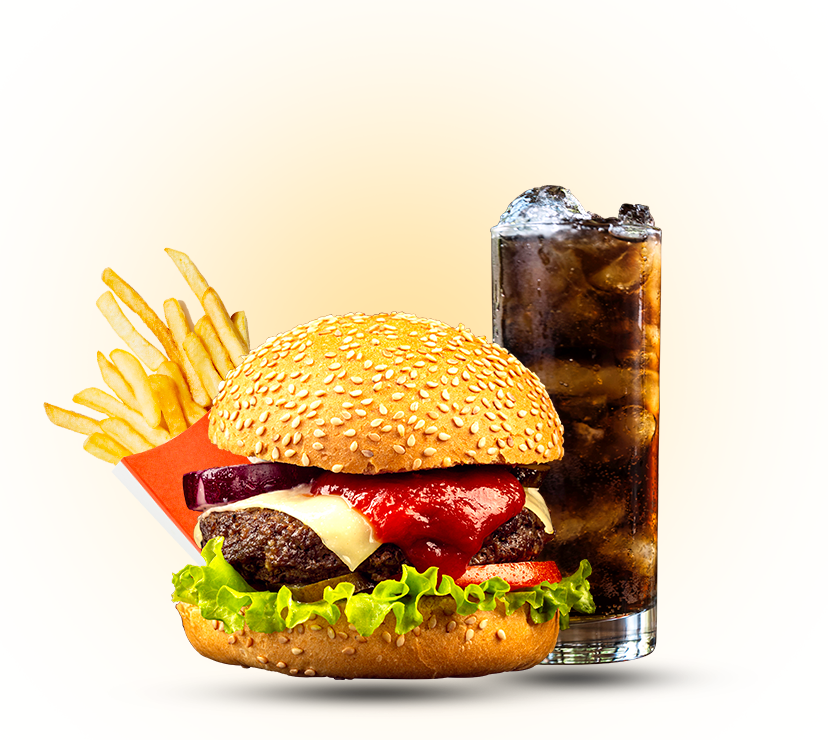
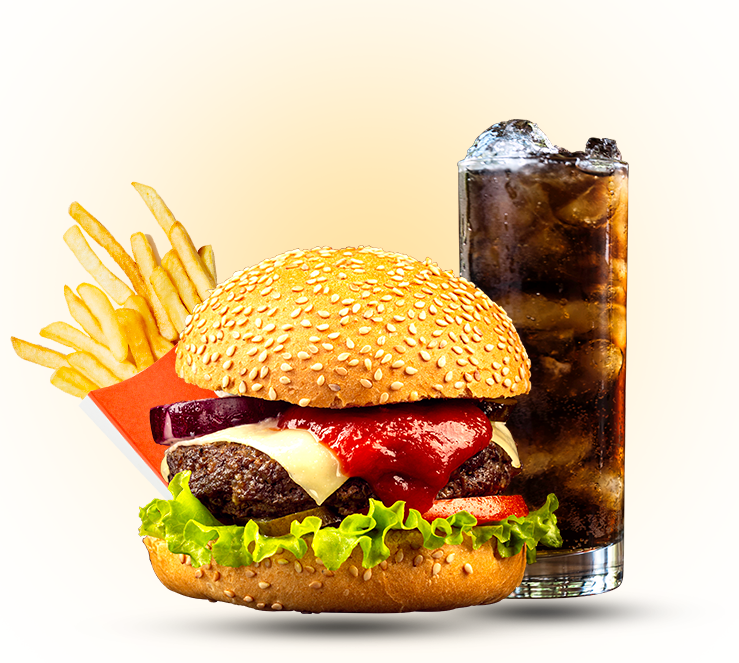
modify some file

diff --git a/css/style.css b/css/style.css
@@ -32,7 +32,12 @@ body {
 /* header start  */
 
 header {
-  padding: 28px 0;
+  position: absolute;
+  top: 0;
+  left: 0;
+  min-width: 100%;
+  padding: 35px 0;
+  z-index: 999;
 }
 
 .container {
@@ -51,7 +56,7 @@ header {
 }
 
 .menu {
-  margin-top: 8px;
+  margin-top: 10px;
   width: 70%;
   float: right;
 }
@@ -92,7 +97,7 @@ header {
 /* banner start  */
 
 .banner {
-  padding-bottom: 80px;
+  padding: 80px 0;
   background-image: url("../images/banner.jpg");
   background-size: cover;
   background-repeat: no-repeat;
@@ -100,7 +105,8 @@ header {
 
 .banner_text {
   margin-top: 265px;
-  width: 45%;
+  width: 40%;
+
   float: left;
 }
 
@@ -113,38 +119,42 @@ header {
   border: 3px dashed #3d2514;
 }
 
+.cmn_txt {
+  font-family: AlfaSlabOne-Regular;
+  text-transform: uppercase;
+  text-shadow: 6px 5px 0px #fee7ba;
+  text-shadow: 6px 5px 0px #fee7ba;
+}
+
 .banner_text h1 {
   margin: 35px 0 5px;
-  font-family: AlfaSlabOne-Regular;
   font-size: 114px;
   line-height: 125px;
   letter-spacing: 5px;
-  text-transform: uppercase;
-  text-shadow: 6px 5px 0px #fee7ba;
 }
 
 .banner_text h2 {
-  font-family: AlfaSlabOne-Regular;
   font-size: 56px;
   line-height: 65px;
-  text-transform: uppercase;
-  text-shadow: 6px 5px 0px #fee7ba;
+  letter-spacing: 2px;
 }
 
 .banner_food {
-  width: 48%;
+  position: relative;
+  width: 55%;
   float: right;
 }
 
-.food_img img {
+.banner_food img {
   width: 100%;
 }
 
 .offer {
-  position: relative;
-  z-index: 1;
   margin-top: -196px;
   margin-left: 58px;
+  position: absolute;
+  left: 0;
+  bottom: 65px;
   display: flex;
   flex-direction: column;
   justify-content: center;
@@ -194,7 +204,7 @@ header {
   color: #fff;
   background-repeat: no-repeat;
   background-size: cover;
-  background-position: center;
+  background-position: top center;
   border-radius: 8px;
 }
 
@@ -240,6 +250,8 @@ header {
 }
 
 .product_header {
+  margin: 0 auto;
+  width: 65%;
   text-align: center;
 }
 
@@ -263,10 +275,6 @@ header {
 
 .cmn_para {
   line-height: 28px;
-}
-
-.header_para {
-  padding: 0 310px;
 }
 
 .products {
@@ -303,7 +311,6 @@ header {
 }
 
 .cmn_btn {
-  height: 55px;
   font-family: AlfaSlabOne-Regular;
   color: #fff;
   text-transform: uppercase;
@@ -322,7 +329,12 @@ header {
 .product_btn {
   margin-top: 30px;
   width: 198px;
+  height: 55px;
+  display: inline-flex;
+  justify-content: center;
+  align-items: center;
   font-size: 16px;
+  text-decoration: none;
 }
 
 /* product end  */
@@ -373,7 +385,14 @@ header {
 /* contact start  */
 
 .contact {
-  padding: 60px 0;
+  position: relative;
+  padding: 60px 0 120px;
+}
+
+.container3 {
+  width: 50%;
+  margin: 0 auto;
+  position: relative;
 }
 
 .contact_text {
@@ -381,14 +400,9 @@ header {
   margin-bottom: 80px;
 }
 
-form {
-  margin: 0 auto;
-  width: 45%;
-}
-
 .form_group {
   overflow: hidden;
-  margin-bottom: 22px;
+  margin-bottom: 30px;
 }
 
 .form_group:last-child {
@@ -397,13 +411,13 @@ form {
 
 .form_group input,
 .contact_btn {
-  width: 49%;
+  width: 48%;
   border-radius: 4px;
 }
 
 .form_group input {
   padding-left: 20px;
-  height: 55px;
+  height: 60px;
   font-family: Montserrat-Bold;
   outline: none;
   border: 1px solid #bebebe;
@@ -421,6 +435,31 @@ form {
 .form_group input::placeholder {
   text-transform: uppercase;
   color: #8d8d8d;
+}
+
+.contact_btn {
+  height: 60px;
+}
+
+.common_p {
+  position: absolute;
+}
+
+.common_p img {
+  width: 100%;
+}
+
+.position1 {
+  top: -65px;
+  left: -78px;
+}
+.position2 {
+  top: 195px;
+  left: 180px;
+}
+.position3 {
+  bottom: -220px;
+  right: 0;
 }
 
 /* contact end  */
@@ -480,24 +519,31 @@ footer {
 }
 
 .copyright {
-  margin-top: 6px;
+  margin-top: 15px;
 }
 
 .footer_bottom {
   margin-top: 160px;
 }
+
 .social_links {
   float: right;
+  padding: 10px 0;
 }
 
 .social_links li {
   margin-right: 12px;
   float: left;
   list-style: none;
+  transition: 0.3s;
 }
 
 .social_links li:last-child {
   margin-right: 0;
+}
+
+.social_links li:hover {
+  transform: translateY(-3px);
 }
 
 /* footer end  */

diff --git a/index.html b/index.html
@@ -37,13 +37,11 @@
         <div class="container">
           <div class="banner_text">
             <p>It is a good time for the great taste of burgers</p>
-            <h1>Burger</h1>
-            <h2>week</h2>
+            <h1 class="cmn_txt">Burger</h1>
+            <h2 class="cmn_txt">week</h2>
           </div>
           <div class="banner_food">
-            <div class="food_img">
-              <img src="images/banner_food.png" alt="" />
-            </div>
+            <img src="images/banner_food.png" alt="" />
             <div class="offer">
               <h3>$5<span>.49</span></h3>
               <h4>only</h4>
@@ -95,13 +93,13 @@
           <div class="products">
             <div class="single_product">
               <div class="product_img">
-                <img src="images/product.png" alt="" />
+                <img src="images/product1.png" alt="" />
               </div>
               <h2>Lorem ipsum dolor</h2>
               <p class="cmn_para product_para">
                 Lorem ipsum dolor sit amet, consectetur adipiscing elit, sed do
               </p>
-              <button class="cmn_btn product_btn">order now</button>
+              <a href="#" class="cmn_btn product_btn">order now</a>
             </div>
             <div class="single_product">
               <div class="product_img">
@@ -111,17 +109,17 @@
               <p class="cmn_para product_para">
                 Lorem ipsum dolor sit amet, consectetur adipiscing elit, sed do
               </p>
-              <button class="cmn_btn product_btn">order now</button>
+              <a href="#" class="cmn_btn product_btn">order now</a>
             </div>
             <div class="single_product">
               <div class="product_img">
-                <img src="images/product2.png" alt="" />
+                <img src="images/product1.png" alt="" />
               </div>
               <h2>Lorem ipsum dolor</h2>
               <p class="cmn_para product_para">
                 Lorem ipsum dolor sit amet, consectetur adipiscing elit, sed do
               </p>
-              <button class="cmn_btn product_btn">order now</button>
+              <a href="#" class="cmn_btn product_btn">order now</a>
             </div>
           </div>
         </div>
@@ -173,6 +171,16 @@
             </div>
           </form>
         </div>
+
+        <div class="common_p position1">
+          <img src="images/cnt.png" alt="" />
+        </div>
+        <div class="common_p position2">
+          <img src="images/bottle.png" alt="" />
+        </div>
+        <div class="common_p position3">
+          <img src="images/cnt1.png" alt="" />
+        </div>
       </section>
       <!-- contact end  -->
     </main>
@@ -193,7 +201,7 @@
             </p>
           </div>
           <div class="footer_link">
-            <ul class="overflow communicat">
+            <ul class="overflow">
               <li>
                 <img src="images//map.png" alt="" /><span
                   >Main Road, Building Name, Country</span
@@ -209,7 +217,7 @@
         </div>
         <div class="footer_bottom overflow">
           <div class="copyright">
-            <p>© Company Name 2020. All rights reserved.</p>
+            <p>©copyright by hridoy 2020. All rights reserved.</p>
           </div>
           <div class="social">
             <ul class="overflow social_links">

diff --git a/README.md b/README.md
@@ -1,2 +1,13 @@
 # burgar
+
 psd to html. without responsive
+
+<h1> copy link : </h1>
+
+```
+https://hridoyhaque01.github.io/burgar/
+```
+
+<h1>live preview : </h1>
+
+https://hridoyhaque01.github.io/burgar/
